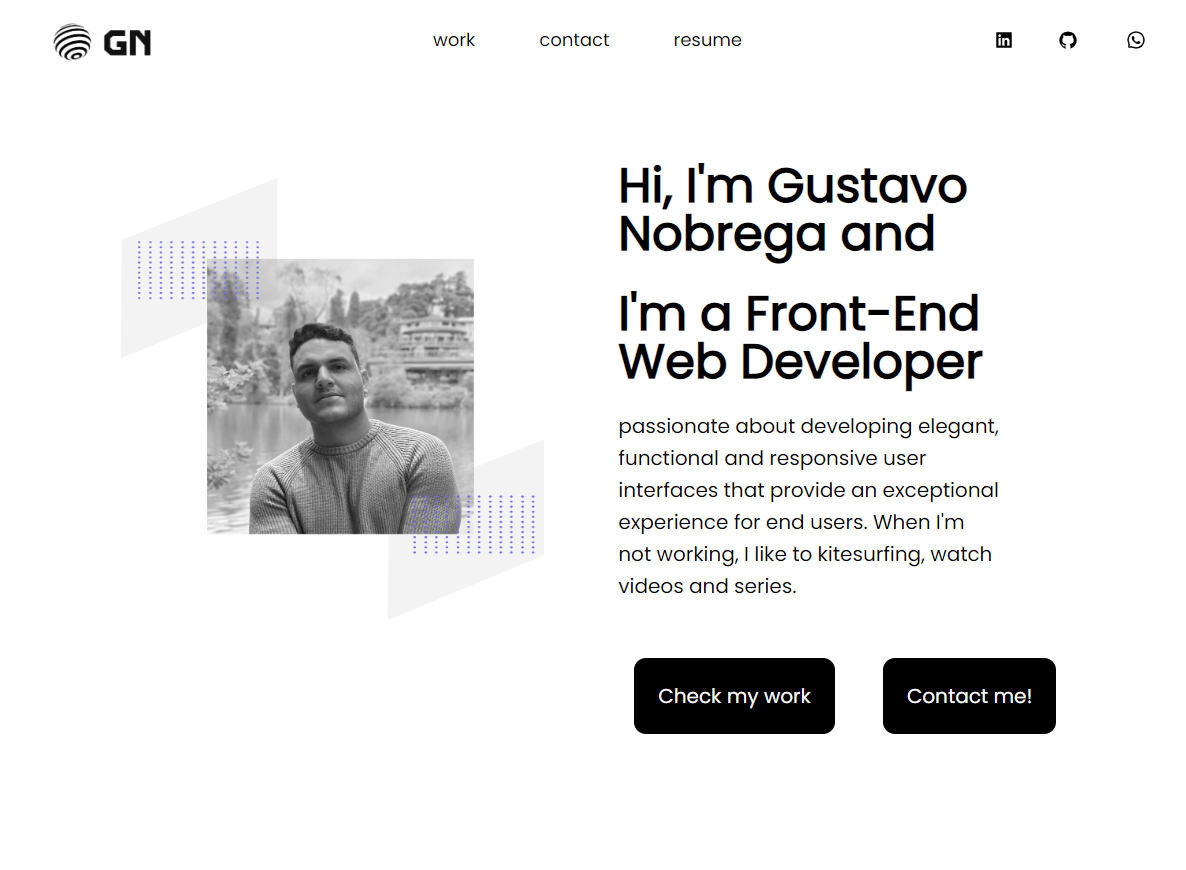
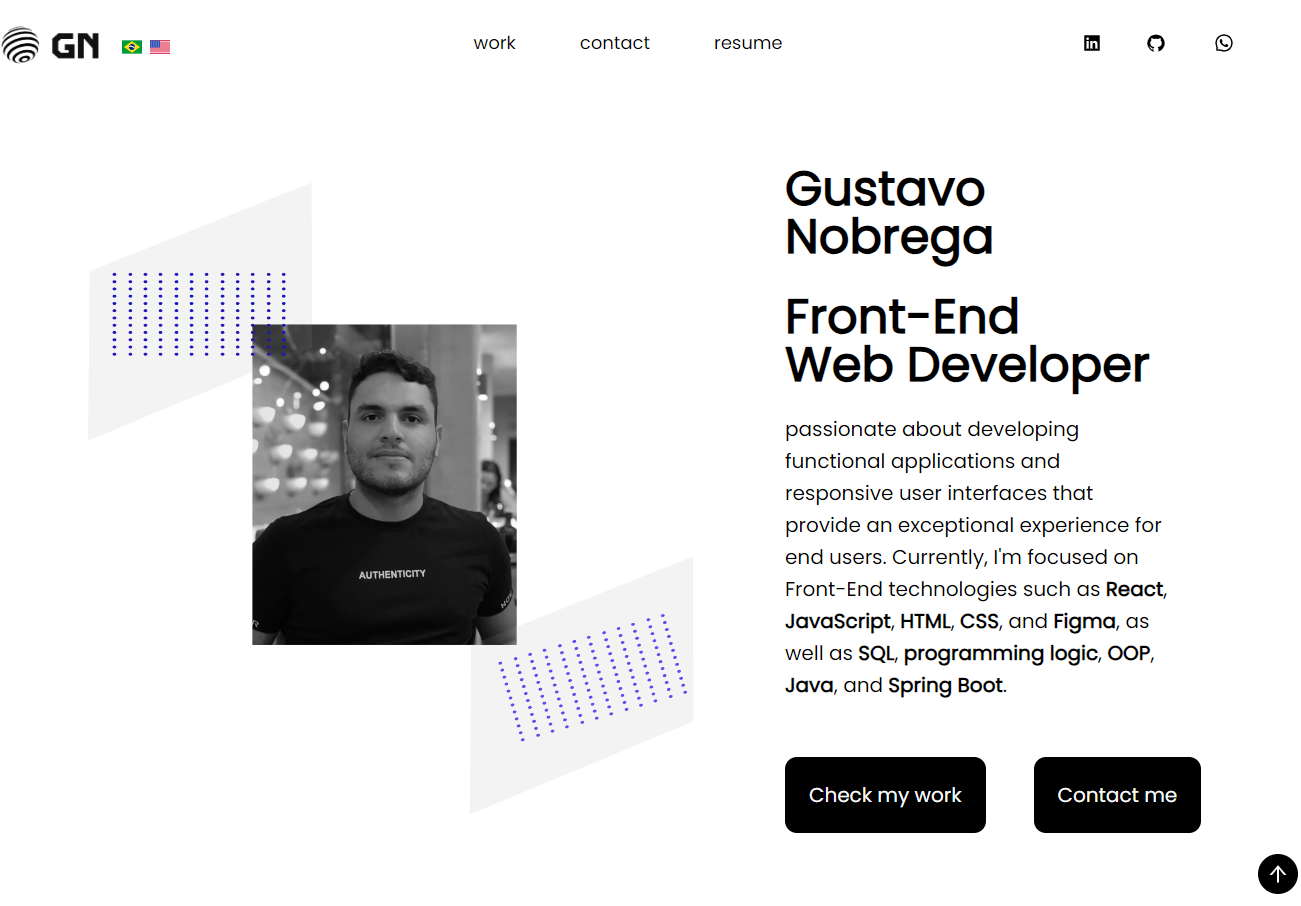
style: fixing some text

diff --git a/components/cardcim.tsx b/components/cardcim.tsx
@@ -7,7 +7,8 @@ import { AiOutlineEye } from 'react-icons/ai'
 function CardCim() {
 
     return (
-        <div className=" bg-card-bg rounded-md flex flex-col p-6 max-w-md md:max-w-sm lg:max-w-sm hover:scale-110 hover:ease-in duration-300">
+
+        <div className=" bg-card-bg rounded-md flex flex-col p-6 max-w-md md:max-w-sm lg:max-w-sm hover:scale-110 hover:ease-in duration-300 ">
             <div className="rounded-md flex  justify-center">
                 <Image src={cim} alt="CIM-website" className=""></Image>
             </div>
@@ -18,13 +19,15 @@ function CardCim() {
                     <span className="bg-dots-blue px-4 py-1 rounded-xl">CSS</span>
                     <span className="bg-dots-blue px-4 py-1 rounded-xl">JavaScript</span>
                 </div>
-                <p className="py-4 h-52">The CIM is the most representative organization of Italians residing abroad, of natives and descendants. It is present in 33 countries, coordinates and represents over 2,000 federations and associations of Italians around the world.</p>
-                <div className="flex gap-5 lg:justify-center py-6 text-sm lg:text-md ">
+                <p className="py-4 ">The CIM is the most representative organization of Italians residing abroad, of natives and descendants. It is present in 33 countries, coordinates and represents over 2,000 federations and associations of Italians around the world. During creation I was able to develop fundamental knowledge, including logically structuring content with HTML, effective styling using CSS, and adding interactivity with JavaScript. Additionally, I learned how to debug and troubleshoot, optimize performance, consider user experience, and apply good development practices such as accessibility and SEO. This experience also emphasized the importance of continuous learning in an ever-evolving field, providing a solid foundation for future web development projects.</p>
+                <div className="flex gap-5 lg:justify-center py-6 text-sm lg:text-md lg:mt-30 ">
                     <Link href={"https://cimconfederazione.it/"} target="_blank" className=" bg-black flex gap-2 hover:bg-dots-blue ease-in duration-150 p-1 rounded-md text-white md:p-3"><AiOutlineEye className="mt-1"></AiOutlineEye>View project</Link>
                     <Link href={"https://github.com/gustavolopesnobrega/CIM"} target="_blank" className=" bg-black  hover:bg-dots-blue ease-in duration-150 p-1 rounded-md text-white md:p-3"> Github repositorio</Link>
                 </div>
             </div>
         </div>
+
+
 
     );
 }

diff --git a/components/cardcimPt.tsx b/components/cardcimPt.tsx
@@ -18,8 +18,8 @@ function CardCimPt() {
                     <span className="bg-dots-blue px-4 py-1 rounded-xl">CSS</span>
                     <span className="bg-dots-blue px-4 py-1 rounded-xl">JavaScript</span>
                 </div>
-                <p className="py-4 ">A CIM é a organização mais representativa dos italianos residentes no exterior, dos nativos e dos descendentes. </p>
-                <div className="flex gap-5 lg:justify-center py-6 text-sm lg:text-md lg:mt-60 ">
+                <p className="py-4 ">A CIM é a organização mais representativa dos italianos residentes no exterior, dos nativos e dos descendentes. Está presente em 33 países, coordena e representa mais de 2.000 federações e associações de italianos em todo o mundo. Durante a criação pude dquiri conhecimentos fundamentais, incluindo a estruturação lógica do conteúdo com HTML, a estilização eficaz usando CSS, e a adição de interatividade com JavaScript. Além disso, aprendi a depurar e solucionar problemas, otimizar o desempenho, considerar a experiência do usuário e aplicar boas práticas de desenvolvimento, como acessibilidade e SEO. Essa experiência também enfatizou a importância da aprendizagem contínua em um campo em constante evolução, proporcionando uma base sólida para futuros projetos de desenvolvimento web.</p>
+                <div className="flex gap-5 lg:justify-center py-6 text-sm lg:text-md lg:mt-30 ">
                     <Link href={"https://cimconfederazione.it/"} target="_blank" className=" bg-black flex gap-2 hover:bg-dots-blue ease-in duration-150 p-1 rounded-md text-white md:p-3"><AiOutlineEye className="mt-1"></AiOutlineEye>View project</Link>
                     <Link href={"https://github.com/gustavolopesnobrega/CIM"} target="_blank" className=" bg-black  hover:bg-dots-blue ease-in duration-150 p-1 rounded-md text-white md:p-3"> Github repositorio</Link>
                 </div>

diff --git a/app/home-pt/page.tsx b/app/home-pt/page.tsx
@@ -162,7 +162,7 @@ export default function Home() {
                         >
                             <div className='flex flex-col gap-4 justify-center px-8 md:text-xl '>
                                 <h1 className=' text-4xl font-semibold max-w-sm py-2 lg:text-5xl text-black w-80'>Gustavo <br />Nobrega</h1>
-                                <h2 className=' text-3xl font-semibold  py-2 lg:text-5xl text-black '>Desenvolvedor <br />Front End</h2>
+                                <h2 className=' text-3xl font-semibold  py-2 lg:text-5xl text-black '>Desenvolvedor <br />Front-End</h2>
                                 <p className=' leading-8 max-w-sm text-gray justify-center md:max-h-76 lg:w-[33rem] '>apaixonado pelo desenvolvimento de aplicações funcionais e responsivas que proporcionam uma experiência excepcional para os usuários finais. Atualmente, estou focado em tecnologias Front-End como <b>React</b>, <b>JavaScript</b>, <b>HTML</b>, <b>CSS</b> e <b>Figma</b>, bem como <b>SQL</b>, <b>lógica de programação</b>, <b>OOP</b>, <b>Java</b> e <b>Bota Spring</b>.</p>
                                 <div className='flex justify-center gap-12 pt-10 md:justify-normal'>
                                     <a href='#projetos ' className="bg-black hover:bg-dots-blue px-6 py-6 w-max rounded-xl text-gray-50" >Veja meu trabalho</a>

diff --git a/app/page.tsx b/app/page.tsx
@@ -166,7 +166,7 @@ export default function Home() {
             >
               <div className='flex flex-col gap-4 justify-center px-8 md:text-xl '>
                 <h1 className=' text-4xl font-semibold max-w-sm py-2 lg:text-5xl text-black w-80'>Gustavo <br />Nobrega</h1>
-                <h2 className=' text-3xl font-semibold  py-2 lg:text-5xl text-black '>Full Stack <br />Web Developer</h2>
+                <h2 className=' text-3xl font-semibold  py-2 lg:text-5xl text-black '>Front-End <br />Web Developer</h2>
 
                 <p className=' leading-8 max-w-sm text-gray justify-center md:max-h-76 lg:w-[33rem] '>passionate about developing functional applications and responsive user interfaces that provide an exceptional experience for end users. Currently, I'm focused on Front-End technologies such as <b>React</b>, <b>JavaScript</b>, <b>HTML</b>, <b>CSS</b>, and <b>Figma</b>, as well as <b>SQL</b>, <b>programming logic</b>, <b>OOP</b>, <b>Java</b>, and <b>Spring Boot</b>.</p>
 
